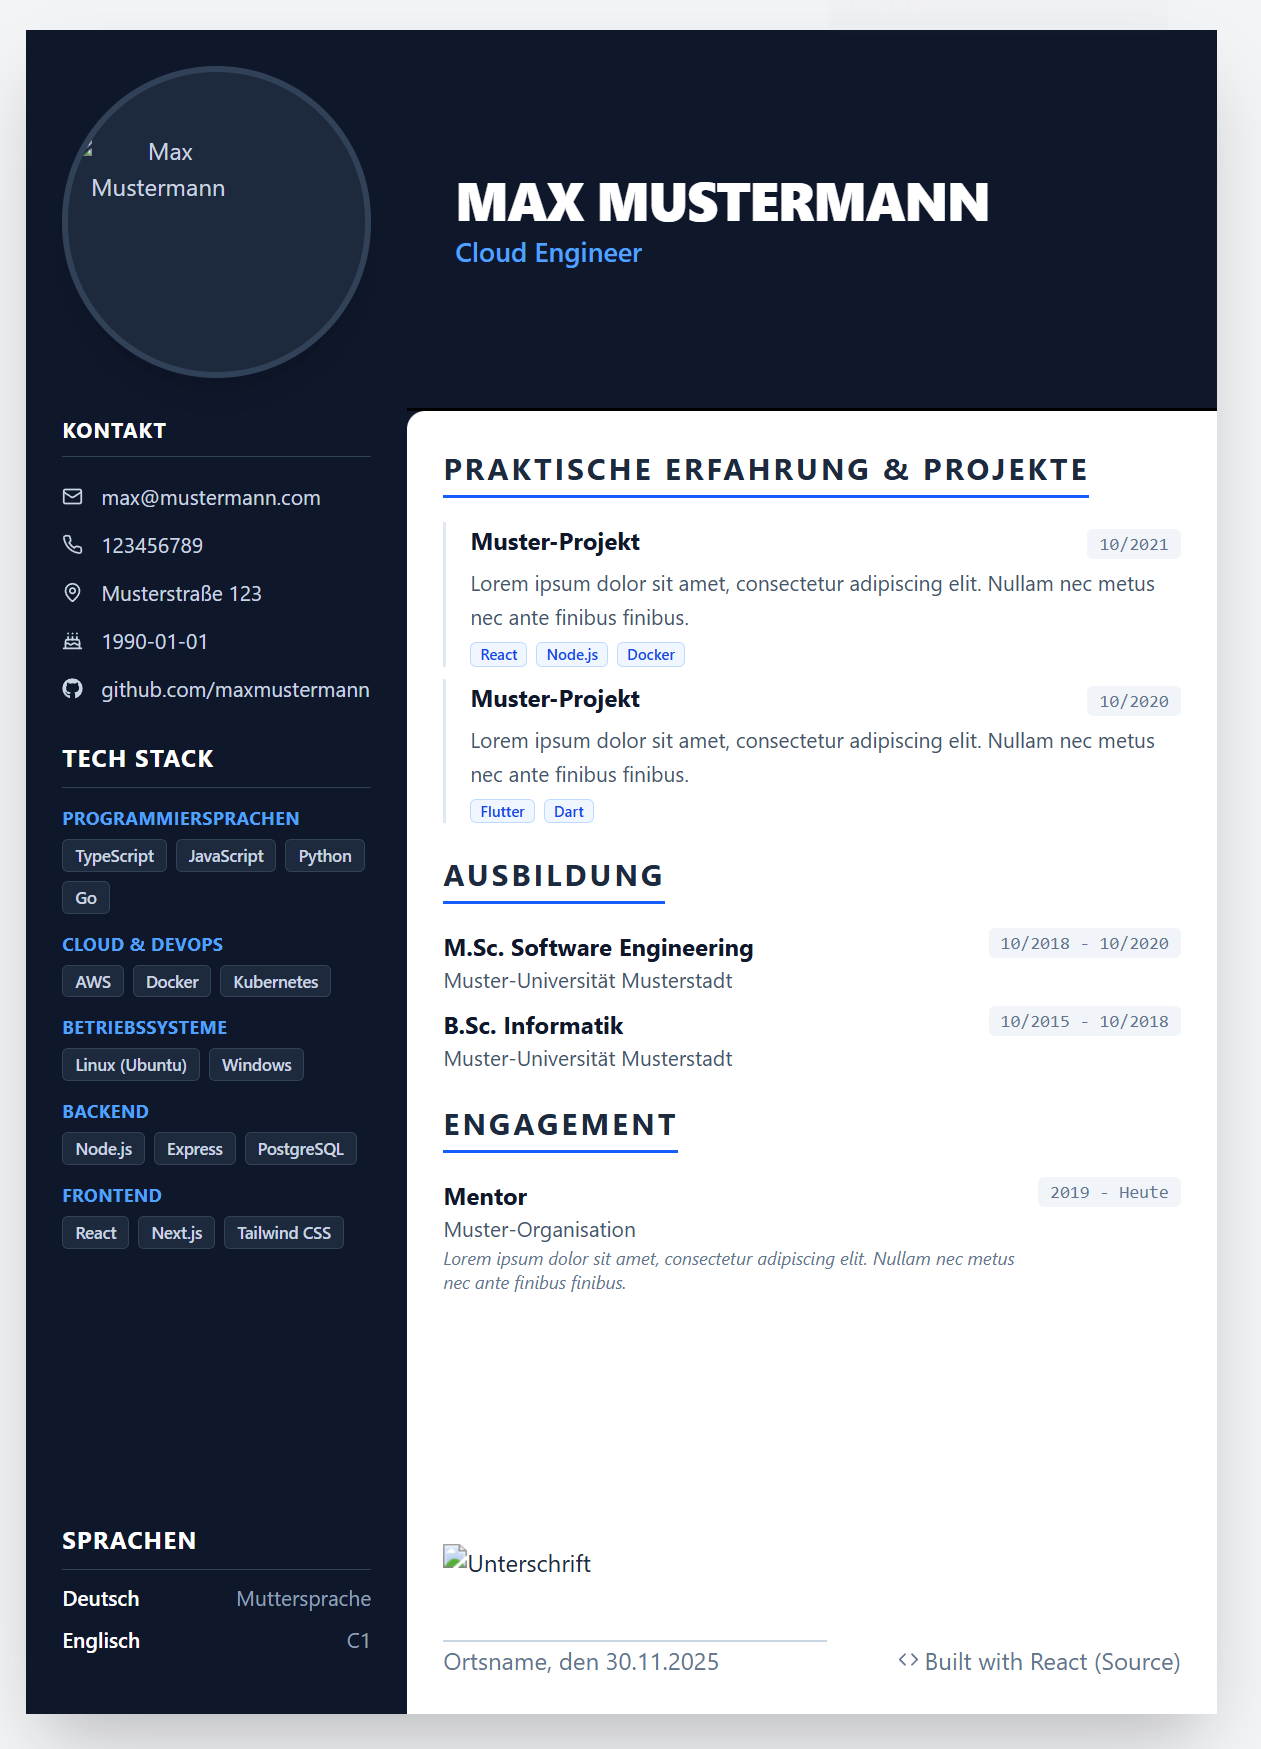
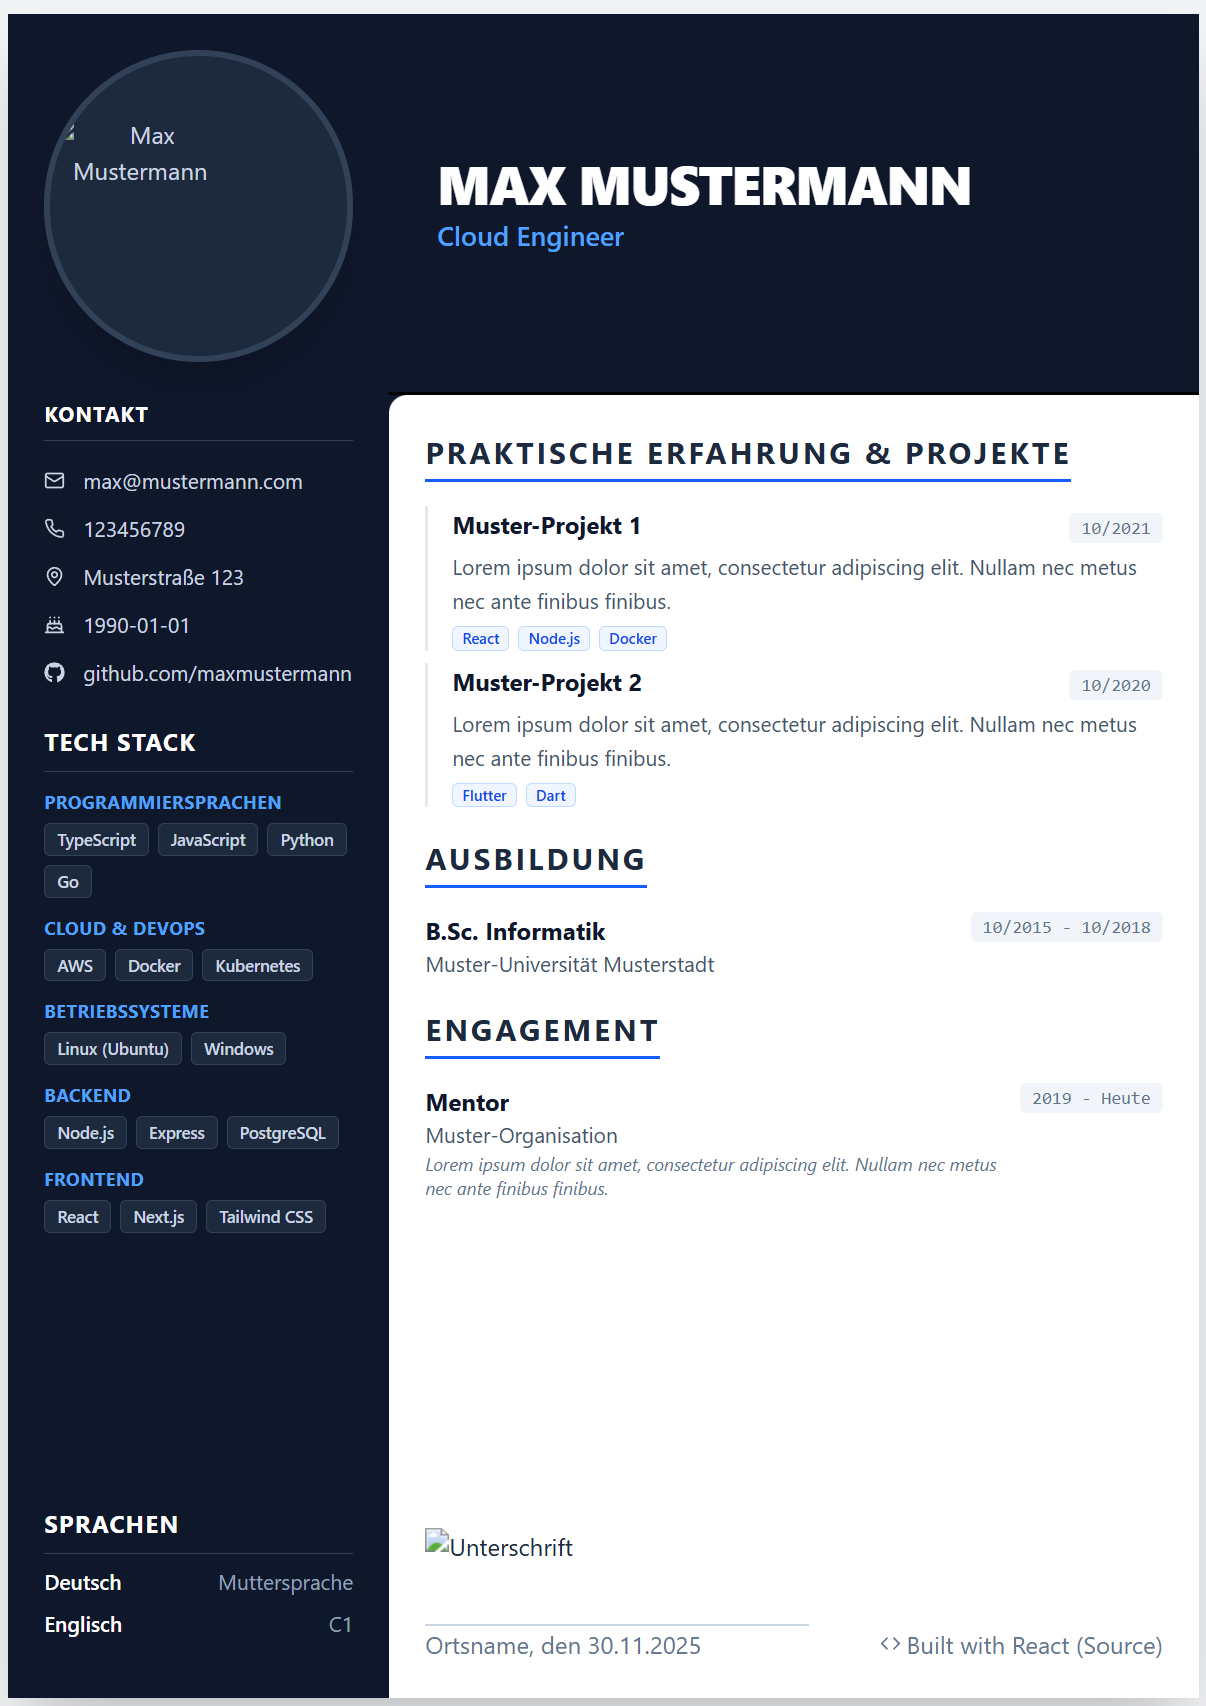
update demo data

diff --git a/src/data/data.ts b/src/data/data.ts
@@ -14,11 +14,6 @@ export const resumeData: ResumeData = {
   },
   education: [
     {
-      degree: "M.Sc. Software Engineering",
-      institution: "Muster-Universität Musterstadt",
-      period: "10/2018 - 10/2020",
-    },
-    {
       degree: "B.Sc. Informatik",
       institution: "Muster-Universität Musterstadt",
       period: "10/2015 - 10/2018",
@@ -26,14 +21,14 @@ export const resumeData: ResumeData = {
   ],
   projects: [
     {
-      title: "Muster-Projekt",
+      title: "Muster-Projekt 1",
       period: "10/2021",
       description:
         "Lorem ipsum dolor sit amet, consectetur adipiscing elit. Nullam nec metus nec ante finibus finibus.",
       tech: ["React", "Node.js", "Docker"],
     },
     {
-      title: "Muster-Projekt",
+      title: "Muster-Projekt 2",
       period: "10/2020",
       description:
         "Lorem ipsum dolor sit amet, consectetur adipiscing elit. Nullam nec metus nec ante finibus finibus.",
